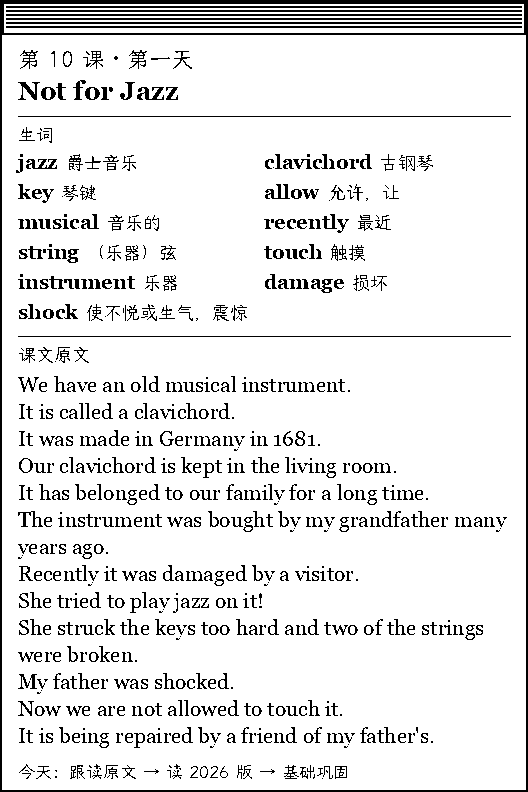
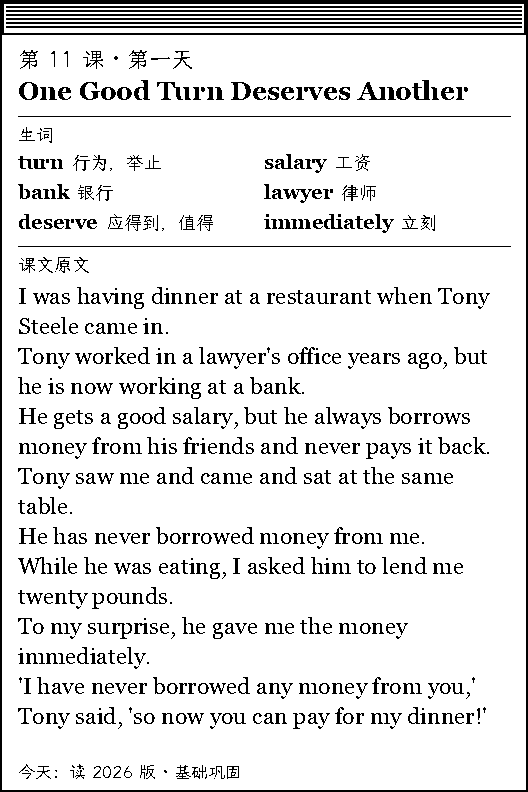
英语晨卡接续第11课第一天并取消跟读提示

diff --git a/english_card.py b/english_card.py
@@ -1,6 +1,6 @@
 #!/usr/bin/env python3
 """英语晨卡推送：把 english/card.bmp（Mac 上按学习进度提前画好）盖上当天日期，推到 X3。
-早上 5–11 点由 push.yml 调用（这段时间不推新闻屏）；手动测试：gh workflow run push.yml -f mode=english
+北京时间 21 点至次日 11 点由 push.yml 调用（这段时间不推新闻屏）；手动测试：gh workflow run push.yml -f mode=english
 卡的内容由 ~/inkclaude/english/morning_card.py 生成并提交，这里只负责「盖日期 + 上传 + 发刷新」。2026-09-26 建。
 """
 import io, os, sys, json, time, datetime, requests
